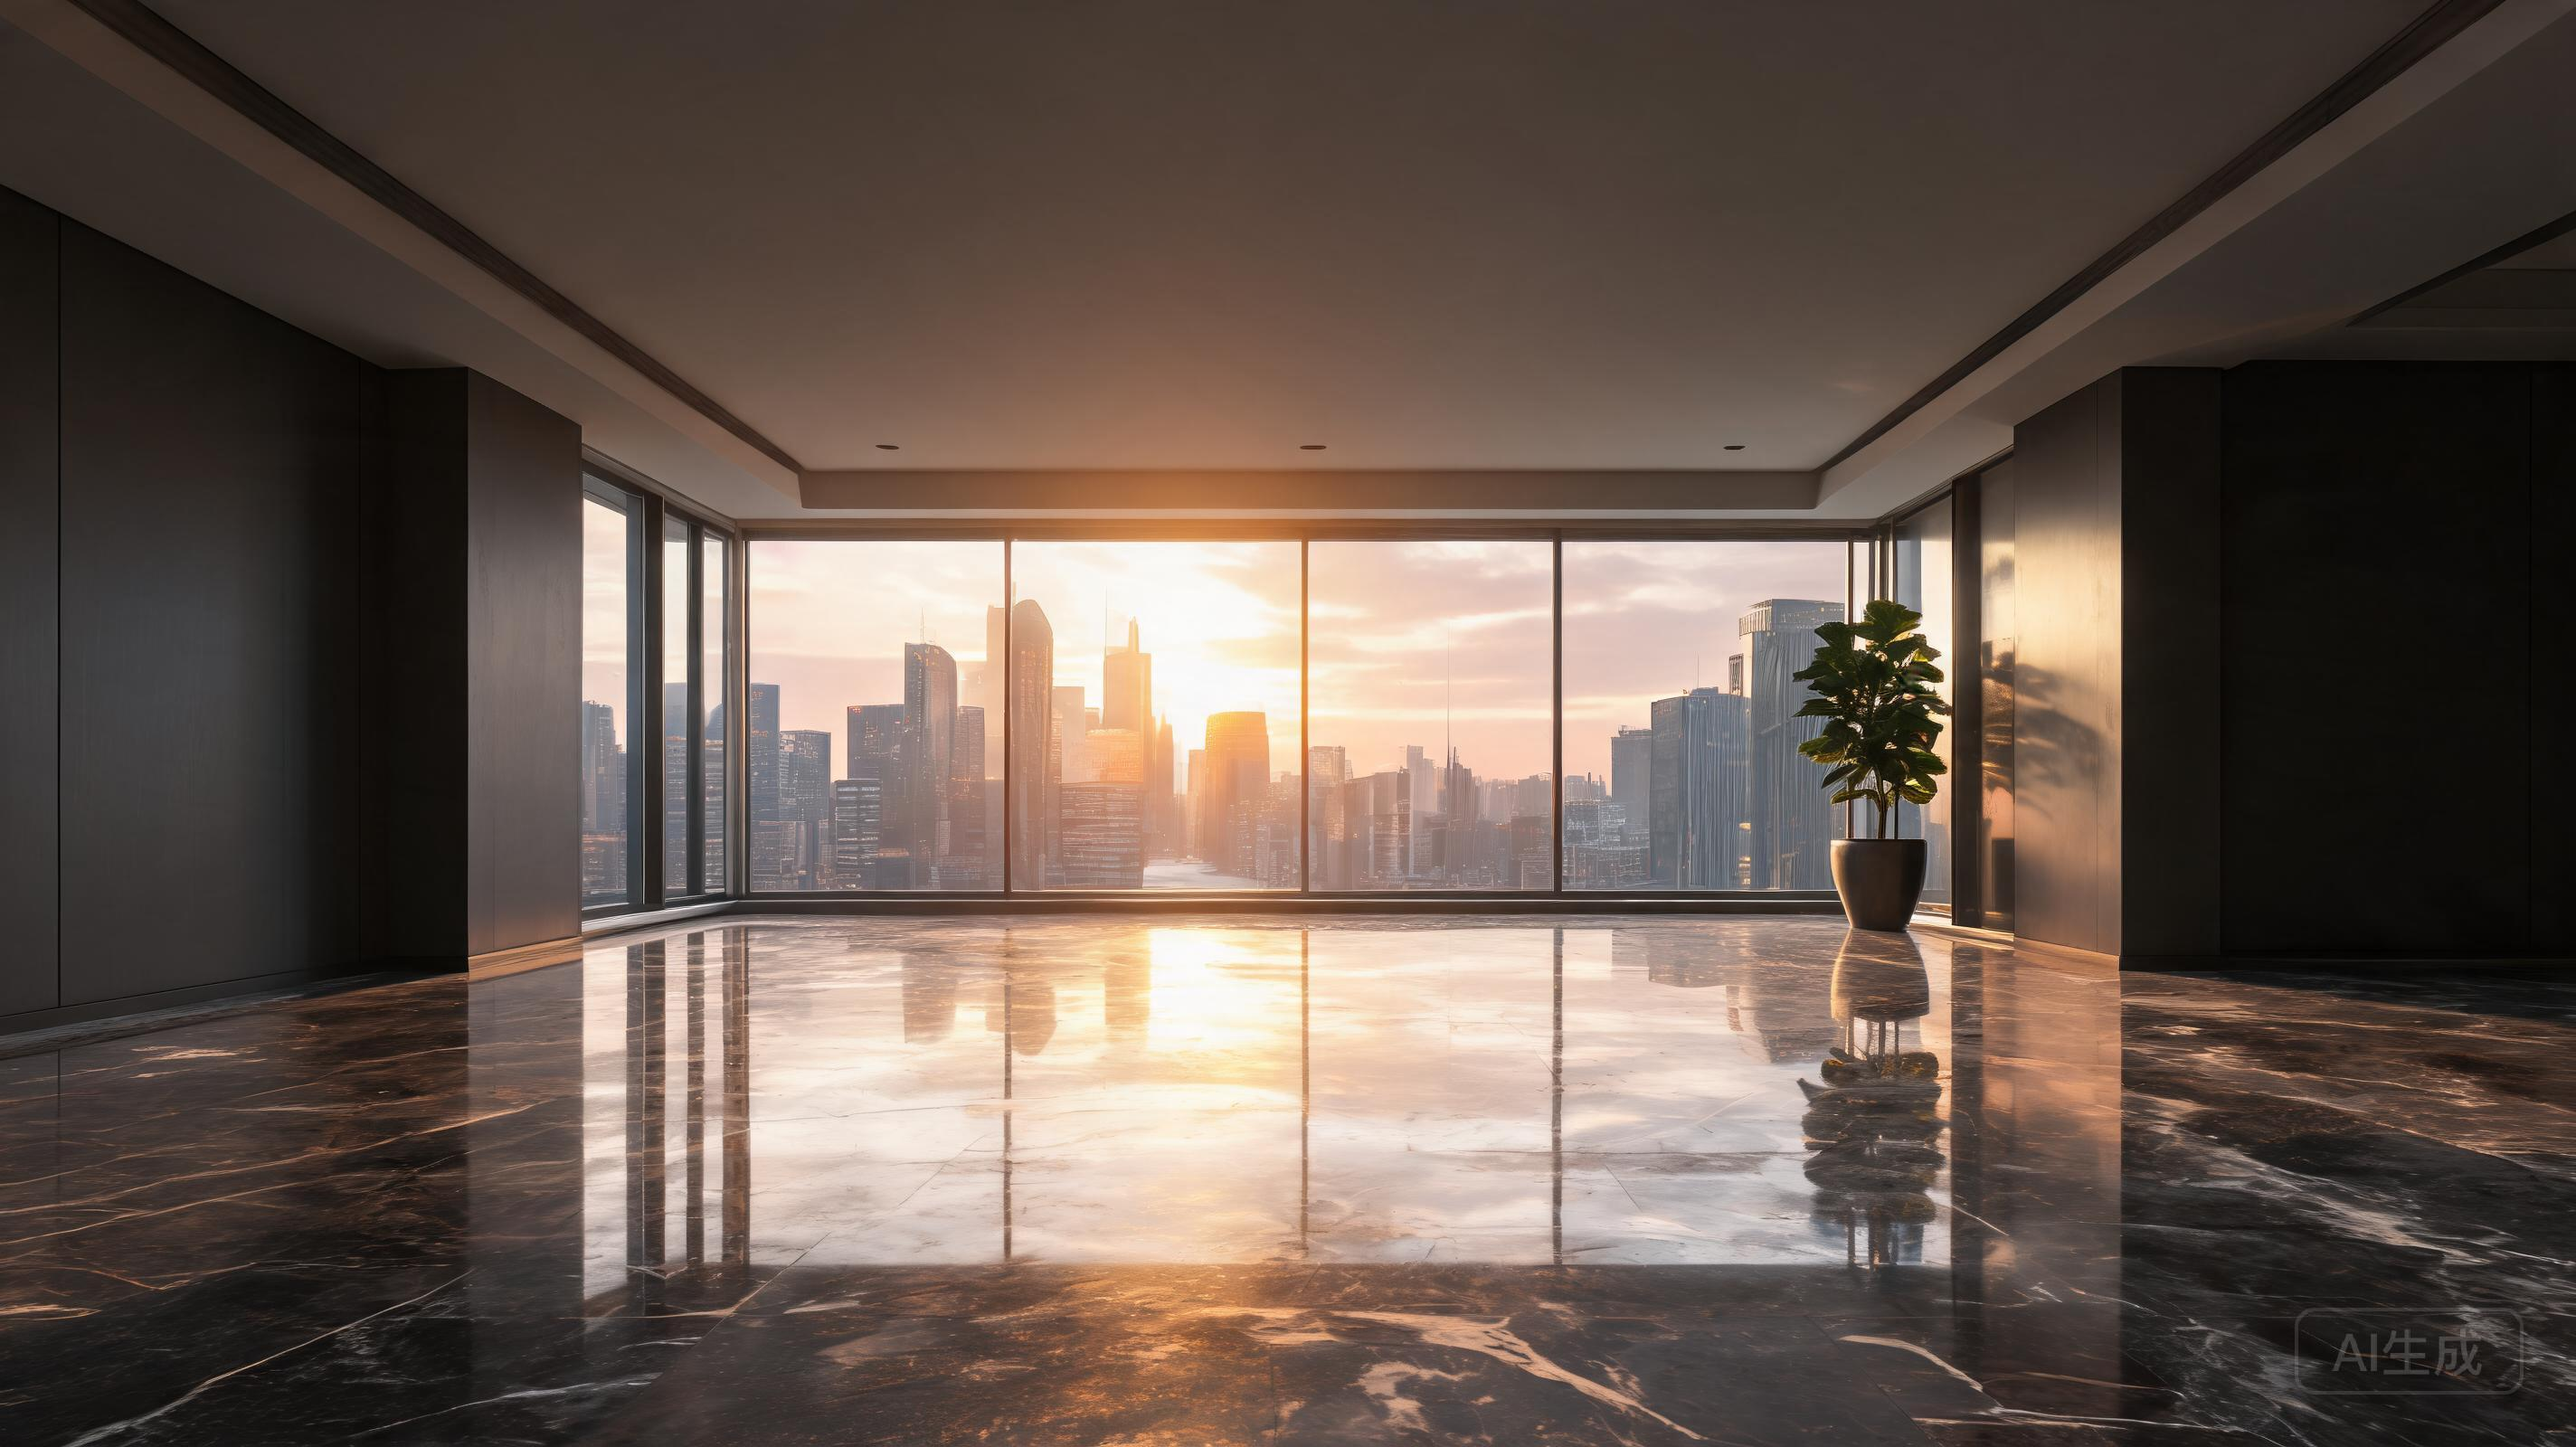
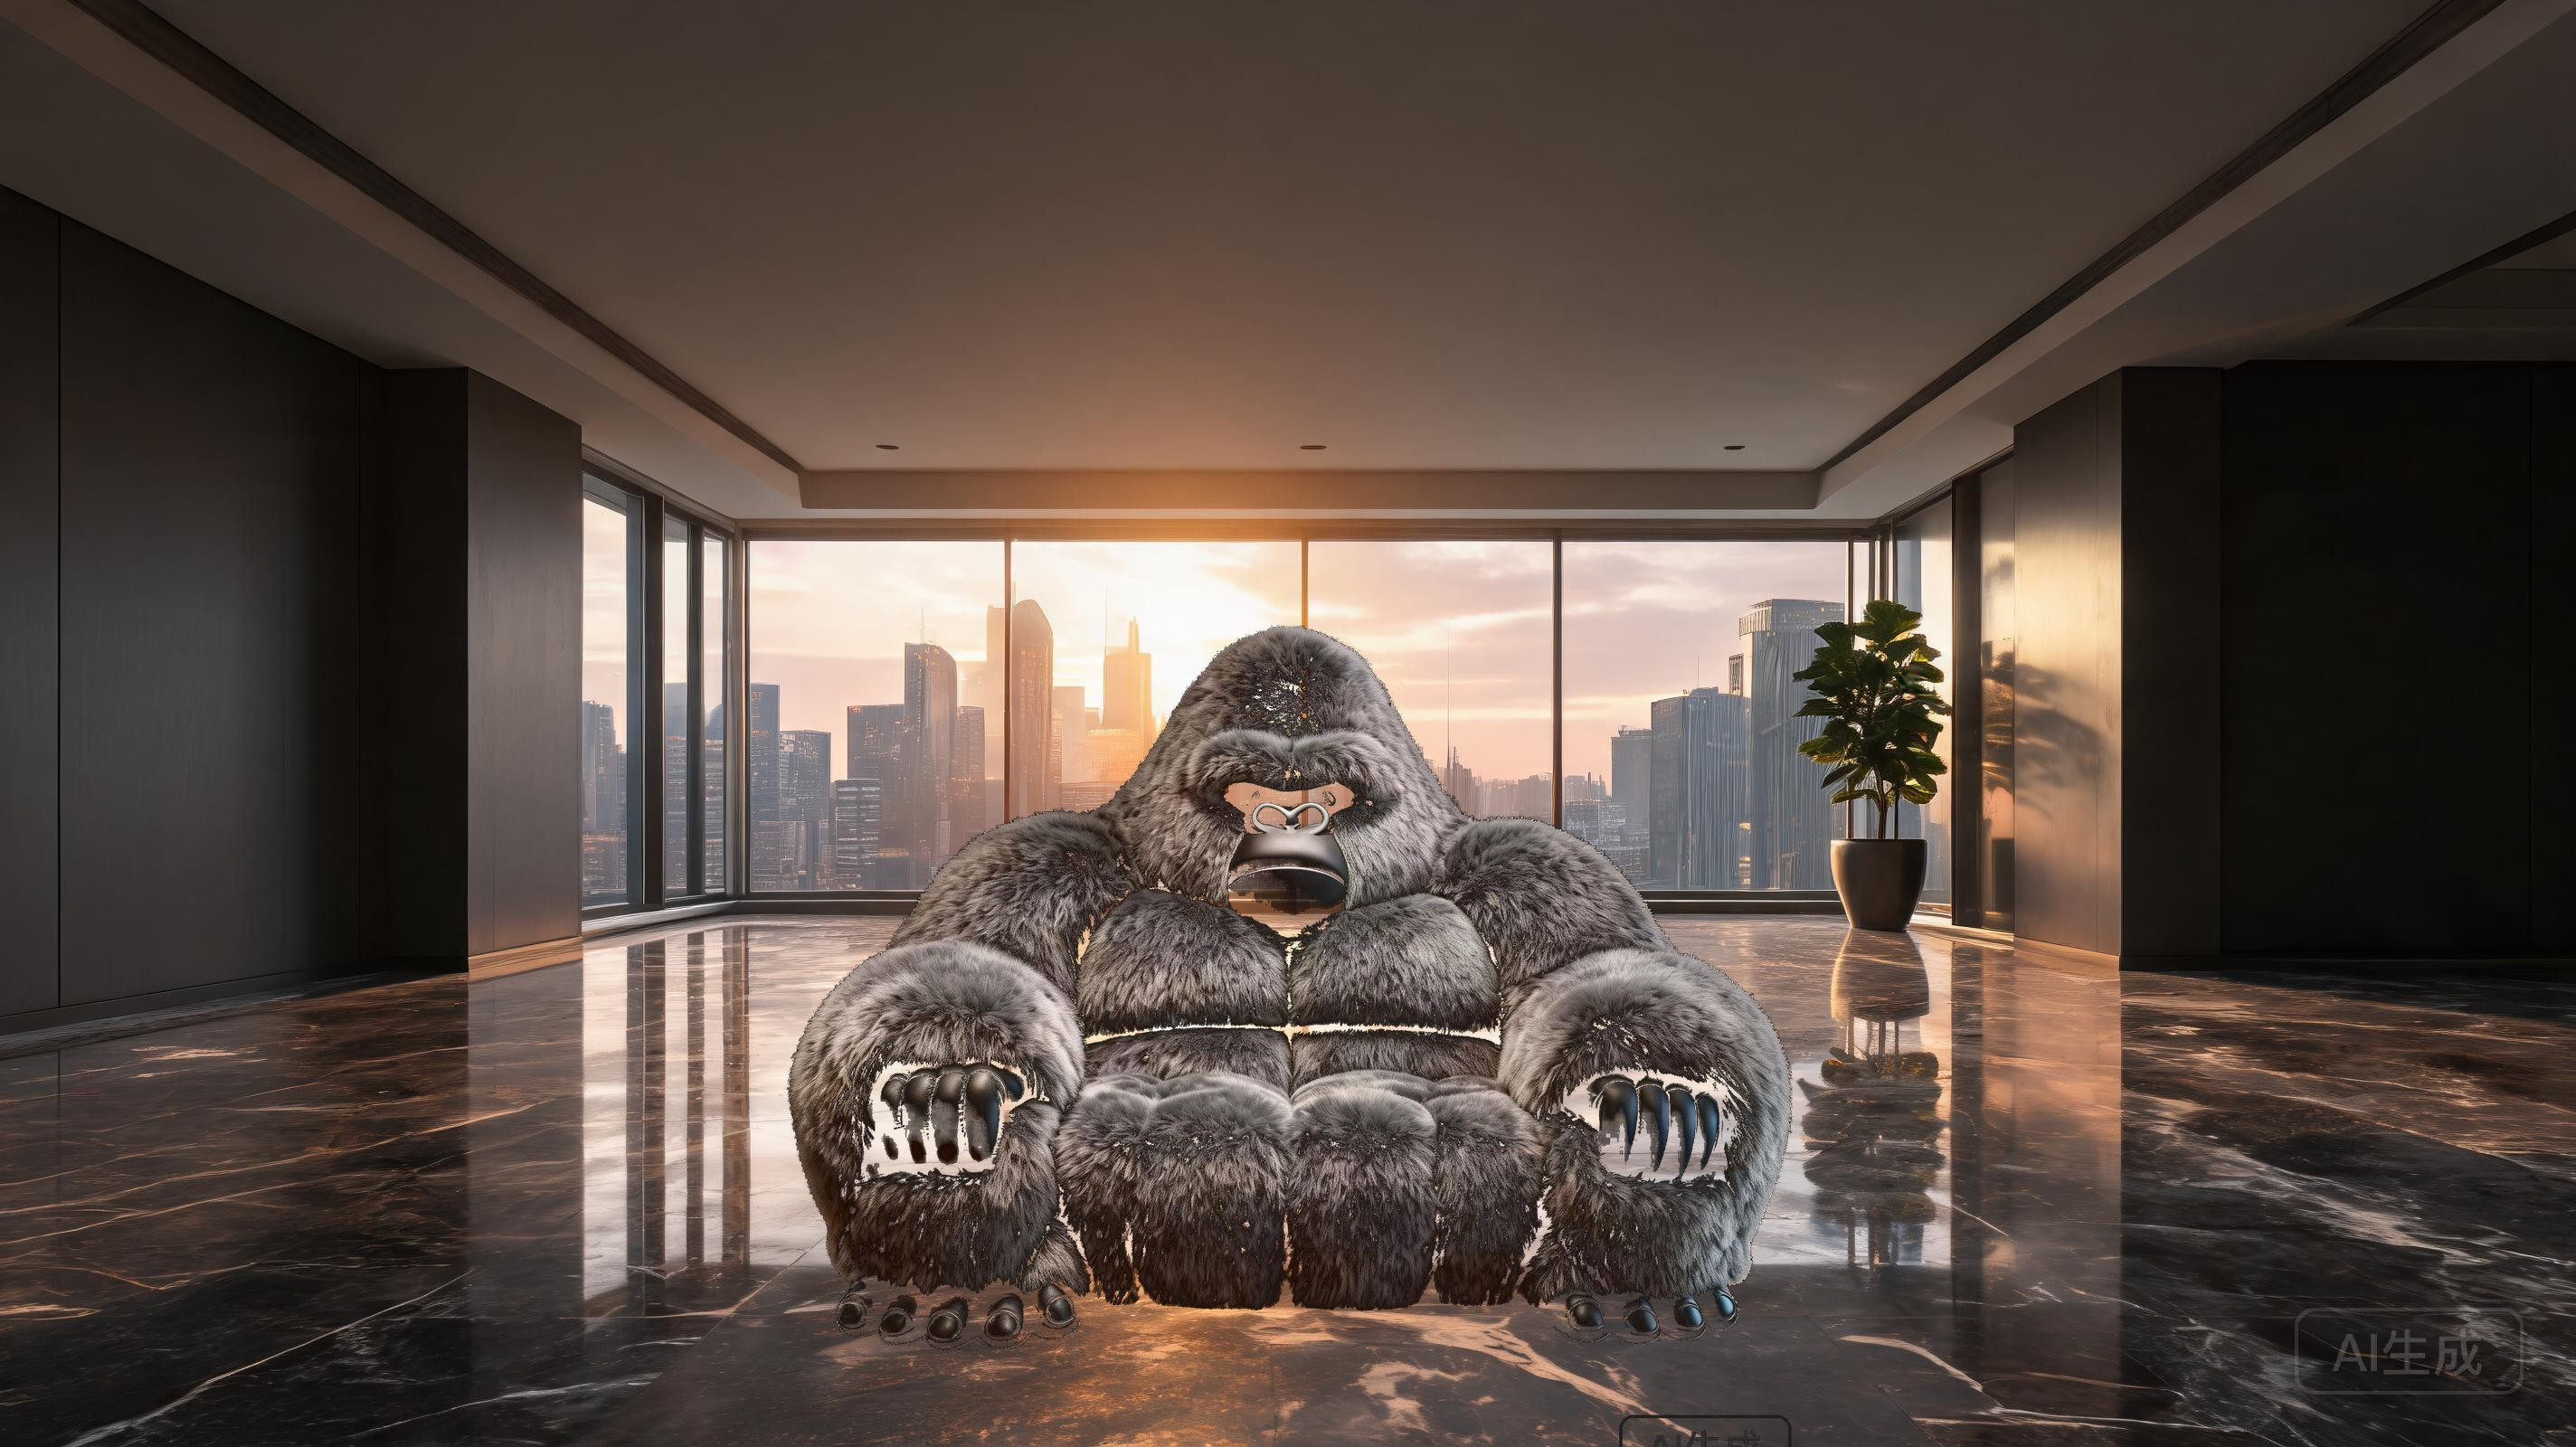
feat: 使用 sharp 合成产品到场景图，简化 hero 组件
- 使用 sharp 库将大猩猩和猫头鹰产品从黑色背景中抠出
- 将透明产品图合成到空场景背景中，保存为 hero-scene-1.jpg 和 hero-scene-2.jpg
- 简化 HeroSlideshow 组件，移除 CSS mix-blend-mode 叠加方式
- 直接使用合成后的场景图作为 hero 背景轮播

Coze-Commit-Type: user
Coze-User-ID: 2130231515422380
Coze-Conversation-ID: 8589488

Changed region(s): [[0.2812, 0.4375, 0.7188, 0.9375], [0.625, 0.9688, 0.6875, 1.0]]

diff --git a/src/app/page.tsx b/src/app/page.tsx
@@ -18,18 +18,8 @@ const slugToPrefix: Record<string, string> = {
 };
 
 const heroScenes = [
-  {
-    bg: "/hero-scene-1.jpg",
-    product: "/hero-gorilla-cutout.png",
-    alt: "Gorilla sofa in luxury penthouse interior",
-    productClass: "bottom-[5%] left-1/2 -translate-x-1/2 w-[55%] md:w-[45%] lg:w-[38%]",
-  },
-  {
-    bg: "/hero-scene-2.jpg",
-    product: "/hero-owl-cutout.png",
-    alt: "Owl chair in elegant night interior",
-    productClass: "bottom-[5%] left-1/2 -translate-x-1/2 w-[45%] md:w-[35%] lg:w-[30%]",
-  },
+  { src: "/hero-scene-1.jpg", alt: "Gorilla sofa in luxury penthouse interior" },
+  { src: "/hero-scene-2.jpg", alt: "Owl chair in elegant night interior" },
 ];
 
 function HeroSlideshow() {
@@ -38,33 +28,21 @@ function HeroSlideshow() {
   useEffect(() => {
     const timer = setInterval(() => {
       setCurrent((prev) => (prev + 1) % heroScenes.length);
-    }, 6000);
+    }, 8000);
     return () => clearInterval(timer);
   }, []);
 
   return (
     <div className="absolute inset-0">
       {heroScenes.map((scene, idx) => (
-        <div
-          key={scene.bg}
-          className={`absolute inset-0 transition-opacity duration-[2000ms] ${
+        <img
+          key={scene.src}
+          src={scene.src}
+          alt={scene.alt}
+          className={`absolute inset-0 w-full h-full object-cover transition-opacity duration-[2000ms] ${
             idx === current ? "opacity-100" : "opacity-0"
           }`}
-        >
-          {/* Scene background — never changes */}
-          <img
-            src={scene.bg}
-            alt={scene.alt}
-            className="absolute inset-0 w-full h-full object-cover"
-          />
-          {/* Real product overlay — CSS composited */}
-          <img
-            src={scene.product}
-            alt={scene.alt}
-            className={`absolute ${scene.productClass} object-contain drop-shadow-[0_20px_60px_rgba(0,0,0,0.5)]`}
-            style={{ mixBlendMode: "lighten" }}
-          />
-        </div>
+        />
       ))}
     </div>
   );